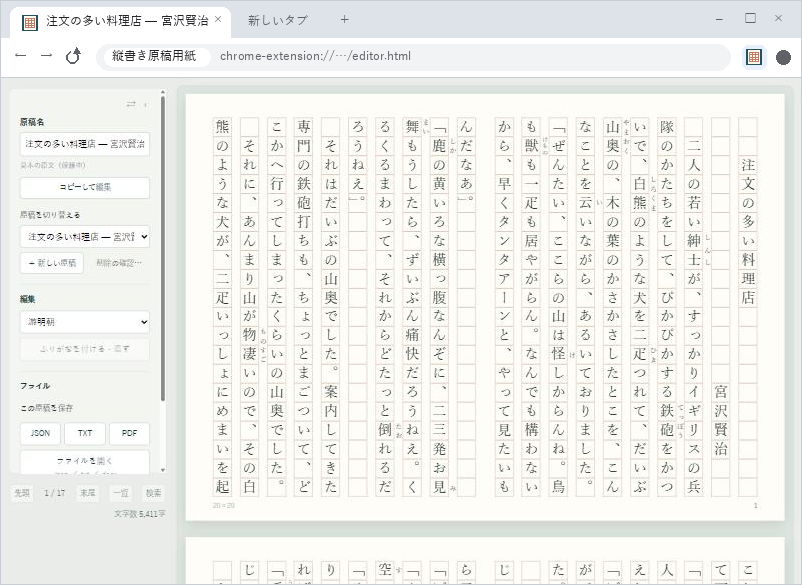
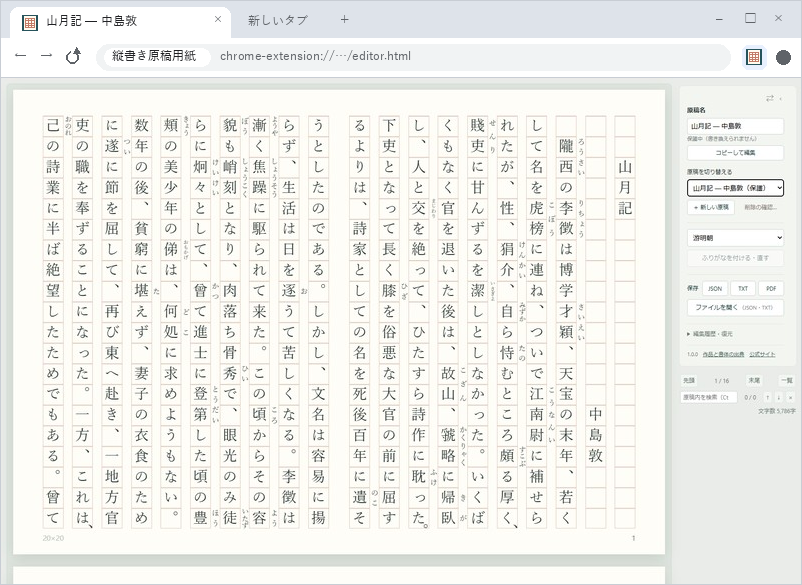
site: 山月記 furigana picture; fingerprinted images; font sentence

Changed region(s): [[0.0, 0.1231, 0.9975, 1.0], [0.0623, 0.0, 0.2494, 0.0615]]

diff --git a/site/pages/policy.html b/site/pages/policy.html
@@ -21,7 +21,7 @@
     <h2>著作権</h2>
     <p class="one-line">このツールの著作権は、お鋳成（OINARI）にあります。</p>
     <p>ソースコードは<a href="{{SOURCE_URL}}">GitHub</a>ですべて公開しています。原稿や個人情報をどこにも送っていないことを、だれでも確かめられるようにするためです。読むだけでなく、コードをコピーして自分用に改修することもOKです。</p>
-    <p>書体（クレー One、よもぎ）は、無料の書体です。この書体で書いた原稿は、印刷しても、販売しても、PDFにして配ってもかまいません。</p>
+    <p>書体（クレー One、よもぎ）は、無料の書体です。この書体で書いた原稿は、印刷しても、販売しても、PDFにして配っても問題ありません。</p>
   </section>
   <section class="spread fit" id="contact">
     <h2>お問い合わせ</h2>

diff --git a/site/pages/index.html b/site/pages/index.html
@@ -47,8 +47,8 @@
     </ul>
   </section>
   <figure class="plate">
-    <img src="images/editor-framed.png" width="802" height="585" loading="lazy" alt="縦書き原稿用紙の画面。左に操作欄、右に宮沢賢治『注文の多い料理店』がふりがな付きで縦書き表示されている">
-    <figcaption>見本の『注文の多い料理店』（青空文庫）を開いたところ。</figcaption>
+    <img src="images/editor-framed.png" width="802" height="585" loading="lazy" alt="縦書き原稿用紙の画面。右に操作欄、左に中島敦『山月記』がふりがな付きで縦書き表示されている">
+    <figcaption>見本の『山月記』（青空文庫）を開いたところ。</figcaption>
   </figure>
 </div>
 
